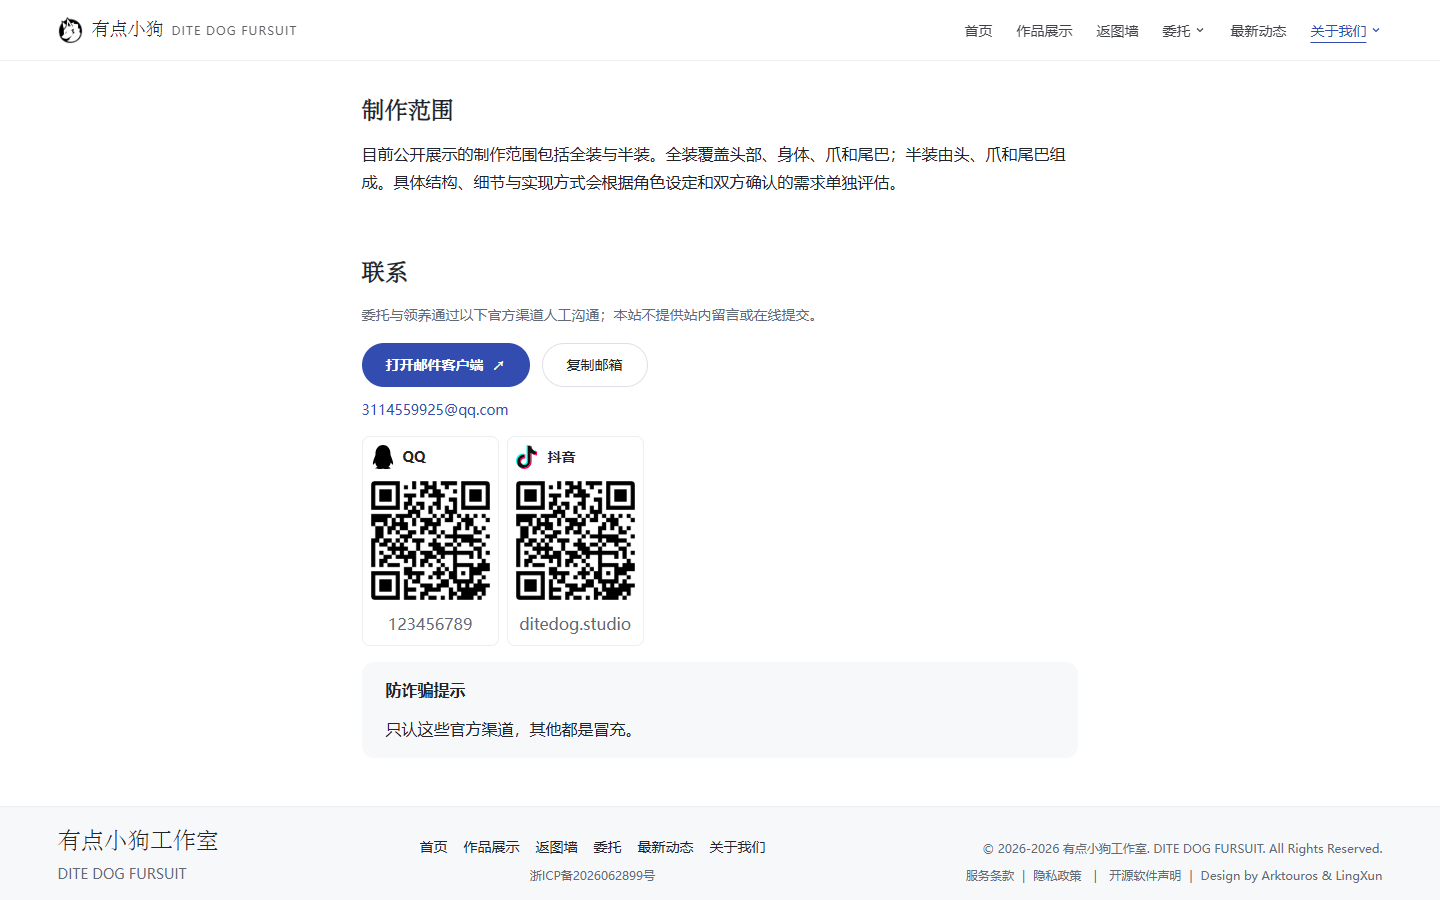
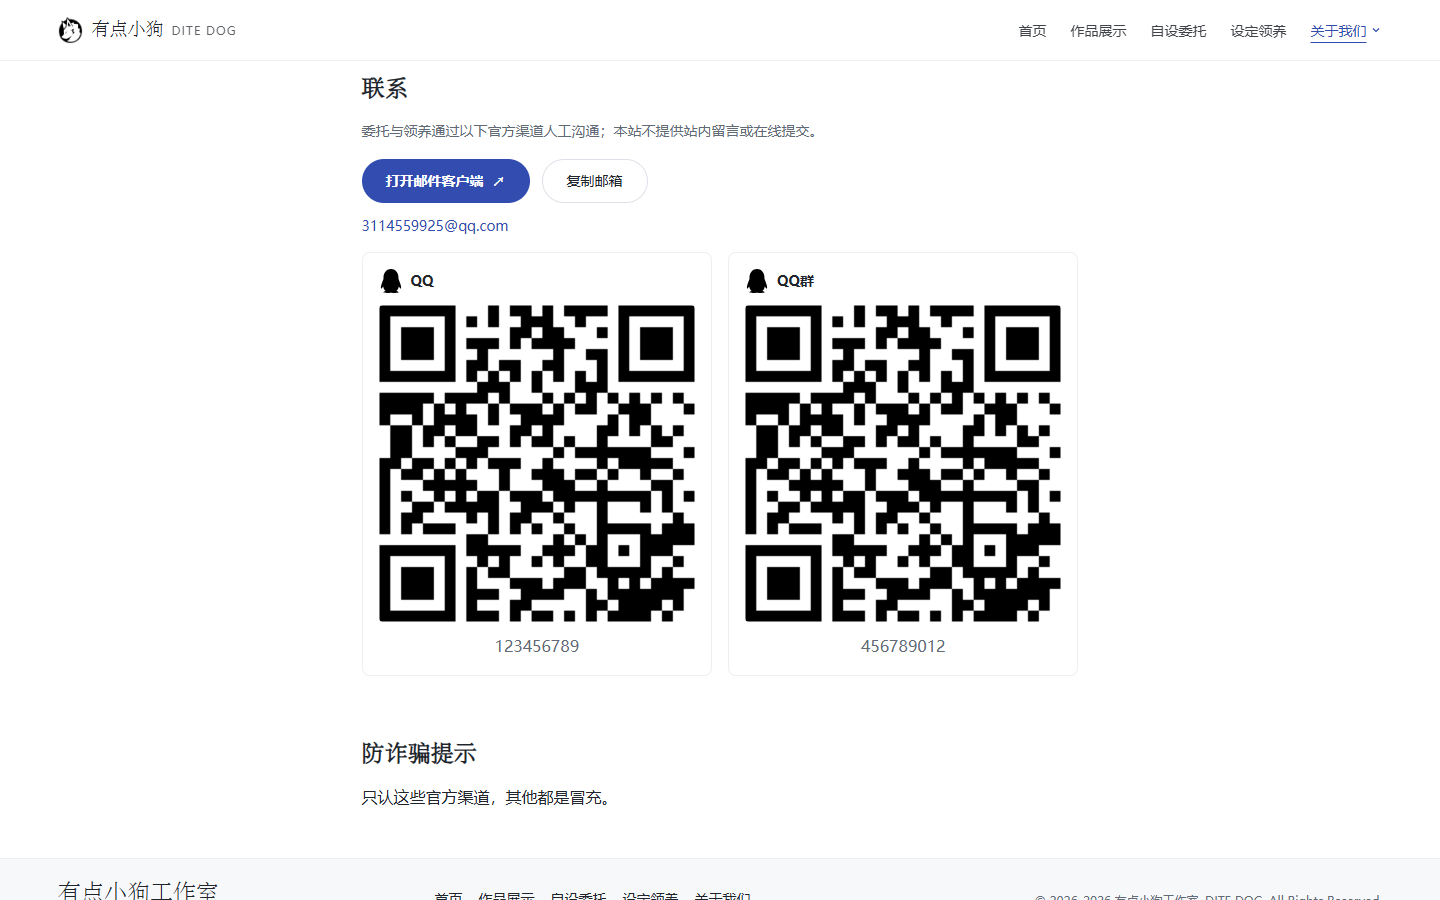
test(r3): prove irreversible local drill

diff --git a/tests/integration/r3-stage-a-cleanup.test.ts b/tests/integration/r3-stage-a-cleanup.test.ts
@@ -1,5 +1,6 @@
 import {
   copyFileSync,
+  existsSync,
   mkdtempSync,
   mkdirSync,
   readFileSync,
@@ -11,9 +12,11 @@ import { dirname, resolve } from 'node:path'
 import type Database from 'better-sqlite3'
 import { afterEach, beforeEach, describe, expect, it } from 'vitest'
 import {
+  backupDatabase,
   DATABASE_MIGRATIONS_FOLDER,
   migrateDatabase,
   openDatabase,
+  restoreDatabase,
 } from '../../server/utils/database'
 import {
   R3_STAGE_A_AUDIT_ACTION,
@@ -314,6 +317,11 @@ describe('R3-A retirement cleanup', () => {
       objectVersions: 16,
       operationRows: 1,
       orphanQrAssets: 1,
+      pendingObjects: 2,
+      privateOriginalKeys: 2,
+      privatePreprocessKeys: 2,
+      privatePreviewKeys: 0,
+      publicDerivedKeys: 3,
       retiredAccounts: 3,
       retiredChannelEntries: 3,
       retiredQrReferences: 1,
@@ -405,6 +413,10 @@ describe('R3-A retirement cleanup', () => {
   })
 
   it('contracts a cleaned complex legacy database and enforces target constraints', async () => {
+    const oldBackup = resolve(directory, 'backups', 'pre-contract-old.db')
+    await backupDatabase(databaseFile, oldBackup)
+    expect(existsSync(oldBackup)).toBe(true)
+
     await runR3StageACleanup(options({
       dryRun: false,
       confirmation: R3_STAGE_A_CONFIRMATION,
@@ -472,6 +484,34 @@ describe('R3-A retirement cleanup', () => {
     expect(schemaSql).not.toContain('return_character')
     expect(schemaSql).not.toContain('contact_douyin')
 
+    sqlite.close()
+    const cleanBackup = resolve(directory, 'backups', 'post-contract-clean.db')
+    const restoredFile = resolve(directory, 'restored', 'post-contract.db')
+    await backupDatabase(databaseFile, cleanBackup)
+    await restoreDatabase(cleanBackup, restoredFile, {
+      activeDatabaseFile: databaseFile,
+    })
+    const restored = openDatabase(restoredFile).sqlite
+    try {
+      expect(restored.pragma('integrity_check', { simple: true })).toBe('ok')
+      expect(restored.pragma('foreign_key_check')).toEqual([])
+      expect(restored.prepare(`
+        SELECT name FROM sqlite_master
+        WHERE type = 'table' AND name IN ('updates', 'return_characters', 'return_photos')
+      `).all()).toEqual([])
+      expect(JSON.parse(restored.prepare(`
+        SELECT official_channels_json FROM site_content WHERE id = 'site'
+      `).pluck().get() as string).map((channel: { platform: string }) => channel.platform))
+        .toEqual(['qq', 'qq_group'])
+    }
+    finally {
+      restored.close()
+    }
+    rmSync(oldBackup)
+    expect(existsSync(oldBackup)).toBe(false)
+    expect(existsSync(cleanBackup)).toBe(true)
+    sqlite = openDatabase(databaseFile).sqlite
+
     const postContract = await runR3StageACleanup(options())
     expect(postContract.counts).toMatchObject({
       analyticsRows: 0,
@@ -483,6 +523,10 @@ describe('R3-A retirement cleanup', () => {
       operationRows: 0,
       orphanQrAssets: 0,
       pendingObjects: 0,
+      privateOriginalKeys: 0,
+      privatePreprocessKeys: 0,
+      privatePreviewKeys: 0,
+      publicDerivedKeys: 0,
       retiredAccounts: 0,
       retiredChannelEntries: 0,
       retiredQrReferences: 0,

diff --git a/server/utils/runner/r3-stage-a-retirement.ts b/server/utils/runner/r3-stage-a-retirement.ts
@@ -59,7 +59,11 @@ export interface R3StageACleanupCounts {
   operationRows: number
   orphanQrAssets: number
   pendingObjects: number
+  privateOriginalKeys: number
+  privatePreprocessKeys: number
+  privatePreviewKeys: number
   privateObjectKeys: number
+  publicDerivedKeys: number
   publicObjectKeys: number
   retiredAccounts: number
   retiredChannelEntries: number
@@ -299,29 +303,40 @@ async function inventory(
   }
 
   const objects = new Map<string, ObjectReference>()
+  const privateOriginalKeys = new Set<string>()
+  const privatePreprocessKeys = new Set<string>()
+  const privatePreviewKeys = new Set<string>()
+  const publicDerivedKeys = new Set<string>()
   if (assetIds.size > 0) {
     const assetStatement = sqlite.prepare(`
       SELECT private_object_key AS objectKey FROM assets WHERE id = ?
     `)
     const variantStatement = tableExists(sqlite, 'asset_variants')
       ? sqlite.prepare(`
-          SELECT storage_scope AS scope, object_key AS objectKey
+          SELECT storage_scope AS scope, object_key AS objectKey, usage
           FROM asset_variants WHERE asset_id = ?
         `)
       : null
     for (const assetId of assetIds) {
       const asset = assetStatement.get(assetId) as { objectKey: string } | undefined
       addObject(objects, 'private', asset?.objectKey, environmentPrefix)
+      if (asset?.objectKey) privateOriginalKeys.add(asset.objectKey)
       for (const variant of (variantStatement?.all(assetId) ?? []) as {
         objectKey: string
         scope: string
+        usage: string
       }[]) {
-        addObject(
-          objects,
-          variant.scope === 'PUBLIC' ? 'public' : 'private',
-          variant.objectKey,
-          environmentPrefix,
-        )
+        const scope = variant.scope === 'PUBLIC' ? 'public' : 'private'
+        addObject(objects, scope, variant.objectKey, environmentPrefix)
+        if (scope === 'public') {
+          publicDerivedKeys.add(variant.objectKey)
+        }
+        else if (variant.usage === 'preprocess') {
+          privatePreprocessKeys.add(variant.objectKey)
+        }
+        else {
+          privatePreviewKeys.add(variant.objectKey)
+        }
       }
     }
   }
@@ -369,6 +384,7 @@ async function inventory(
       pendingObjects += cleanupKeys.length
       for (const key of cleanupKeys) {
         addObject(objects, 'public', key, environmentPrefix)
+        publicDerivedKeys.add(key)
       }
       for (const url of stringArray(row.edgeUrls)) {
         addExactCacheUrl(cacheUrls, url, mediaOrigin)
@@ -415,8 +431,12 @@ async function inventory(
       ),
       orphanQrAssets: existingOrphanQrIds.size,
       pendingObjects,
+      privateOriginalKeys: privateOriginalKeys.size,
+      privatePreprocessKeys: privatePreprocessKeys.size,
+      privatePreviewKeys: privatePreviewKeys.size,
       privateObjectKeys: [...objects.values()]
         .filter(object => object.scope === 'private').length,
+      publicDerivedKeys: publicDerivedKeys.size,
       publicObjectKeys: [...objects.values()]
         .filter(object => object.scope === 'public').length,
       retiredAccounts: retiredChannels.filter(channel => (

diff --git a/tests/unit/deployment-contract.test.ts b/tests/unit/deployment-contract.test.ts
@@ -109,7 +109,9 @@ describe('T52-E6 production deployment contract', () => {
     expect(containerOps).toContain('confirmation: values.confirm')
     expect(containerOps).toContain("case 'upgrade-site-display-v2':")
     expect(containerOps).toContain("import('./site-display-upgrade-options')")
-    expect(containerOps).toContain("import('../server/utils/runner/return-photo-publication')")
+    expect(containerOps).toContain("case 'r3-stage-a-cleanup':")
+    expect(containerOps).toContain("import('./r3-stage-a-cleanup')")
+    expect(containerOps).not.toContain('return-photo-publication')
     expect(database).toContain("PRODUCTION_DATABASE_DIRECTORY = '/app/data'")
     expect(database).toContain('posix.dirname(databaseFile) !== PRODUCTION_DATABASE_DIRECTORY')
   })

diff --git a/tests/integration/public-site-contracts.test.ts b/tests/integration/public-site-contracts.test.ts
@@ -923,7 +923,7 @@ describe('T19/T20 public repository contracts', () => {
     const initial = getAdminHome(sqlite)
     expect(initial).toMatchObject({
       version: expect.any(Number),
-      tagline: '不只做小狗毛',
+      tagline: '不只做小狗毛 | 只做海绵头',
       contactEmail: '3114559925@qq.com',
       contactQq: '3114559925',
       autoRotate: false,

diff --git a/agent_docs/需求3-站点业务简化与委托投递/implementation/TASKS.md b/agent_docs/需求3-站点业务简化与委托投递/implementation/TASKS.md
@@ -1,7 +1,7 @@
 # 任务清单：站点业务简化与委托投递
 
 > **角色**：需求3唯一任务与勾选权威。
-> **状态**：T01～T04 已完成；T05～T07 待执行。
+> **状态**：T01～T05 已完成；T06～T07 待执行。
 > **规则**：任务完成不代签 CI、独立 Review、用户验收或生产执行。所有数据库写、媒体删除和 operation 串行。
 
 ## 决策与文档
@@ -15,7 +15,7 @@
 - [x] **T02 · 退役代码与联系渠道契约**：删除 returns/updates 页面、API、Schema、DTO、repository、service、runner、recipe、fixture 和测试；旧路由 404；更新 sitemap、analytics、build guard、verify；把 `CONTACT_PLATFORMS`、Schema、DTO、管理 Card 和公开 Grid 收缩为 `qq | qq_group`，删除抖音/小红书/Bilibili 分支、Logo 和测试。代码删除、全量 unit、lint/typecheck、production build 和退役路由 E2E 已通过；旧库五槽 CHECK 导致的 selected integration 失败已记录，固定由 T04 Contract 修复并原样重测。
 - [x] **T03 · 退役/渠道 dry-run 与强确认工具**：精确盘点 return/update 行、asset/session/variant/operation/analytics、private/public objects、OSS versions/delete markers、ESA URLs、应用备份，以及三类取消平台账号/二维码引用和无其它引用的 QR 资产；只输出脱敏计数。`pnpm r3-a:cleanup -- --environment-prefix prod/` 默认 dry-run；正式删除必须追加 `--execute --confirm "DELETE R3-A RETIRED MEDIA"`。对象/版本/marker/ESA 任一步失败都不写 `R3_STAGE_A_OBJECT_CLEANUP` 成功标记，T04 不得继续。
 - [x] **T04 · 第一发布单元数据库 contract**：前向迁移 `0036_r3_a_contract.sql` 在 DROP 前验证 T03 标记/净新库条件，删除 updates/return 表及相关行，重建 assets/upload/variants/publication/analytics 约束；`official_channels_json` 固定 QQ/QQ群，删除 `contact_douyin` 与无其它引用的退役平台 QR 资产，保留 `contact_qq`。focused integration 7 files / 57 tests、lint/typecheck 通过，fresh/re-entrant migration、FK/integrity 通过。
-- [ ] **T05 · 本地不可恢复演练**：复杂副本完成 dry-run、返图对象/版本删除、ESA purge、渠道 JSON 收缩、取消平台 QR 清理、contract、404、联系页面检查、重复执行、integrity 和 clean backup restore；旧应用备份在 clean backup 验证后删除。
+- [x] **T05 · 本地不可恢复演练**：复杂副本和测试对象在唯一隔离前缀上完成 dry-run、强确认、8 current objects/16 versions/8 delete markers 删除、ESA purge、渠道收缩、孤立 QR 清理、Contract、404、六个联系渠道 E2E、FK/integrity、production build/verify、clean backup 真实恢复、恢复后旧备份删除和零结果重入；未访问任何生产资源。
 - [ ] **T06 · 第一发布单元质量与独立复查**：相关 lint/typecheck/unit/integration/E2E/build/verify 全部通过；新上下文 focused review 检查对象枚举、停止点、404、两平台约束、取消平台资产清理和证据。
 - [ ] **T07 · 生产立即退役与渠道收缩**：维护窗口停写，用户核对 dry-run 并强确认返图/动态删除；删除媒体/版本/cache，执行渠道/退役 contract，验证服务，创建并恢复 clean backup，再删除旧应用备份；操作员记录外部快照处理状态。
 

diff --git a/agent_docs/需求3-站点业务简化与委托投递/implementation/notes/R3-A-T01-T06-EXECUTION-2026-08-15.md b/agent_docs/需求3-站点业务简化与委托投递/implementation/notes/R3-A-T01-T06-EXECUTION-2026-08-15.md
@@ -61,6 +61,7 @@
 - 顺序：复杂旧库/测试媒体 → dry-run 计数 → 强确认删除（私有原图/preprocess/preview、公开派生、pending、versions/delete markers、ESA purge）→ Contract → 404/联系收缩/FK/integrity → production build/verify → 新净化备份创建与真实恢复 → 成功后删除隔离目录中的旧应用备份 → 再次 dry-run → 重复执行。
 - 证据：脱敏计数、精确命令、备份/恢复哈希与验证、零结果重入。
 - 停止点：任一隔离证明失败即停止；不访问生产环境。
+- 结果：完成。演练仅使用 `APP_ENV=test`、系统临时目录绝对 SQLite、测试对象仓/ESA adapter 和 `test/r3-a-drill/integration-001/`。dry-run 实际目标计数：asset rows 2、variant rows 4、upload session 1、operation 1、analytics 1、update/return character/return photo 各1、孤立 QR asset 1、current objects 8、versions 16、delete markers 8、private originals 2、preprocess 2、private preview 0、public derived 3、pending references 2。强确认后 current/version/marker 归零，ESA purge 完成，Contract/FK/integrity 通过；新净化备份恢复后才删除旧演练备份，Contract 后 dry-run 全部退役计数为 0。路由 E2E 1/1、联系渠道 E2E 6/6、unit 37 files/188 tests、integration 21 files/175 tests、lint、typecheck、production build/content guard、production verify 全部通过。
 
 ### T06 focused Review
 
@@ -86,6 +87,9 @@
 - T04 首次 `pnpm db:generate -- --name ...` 失败：脚本不接受该参数形式。改用 Drizzle 正确入口后，发现 meta snapshot 只到 `0012`而仓库已有大量受控手写前向 migration，工具会把历史表误判为 rename；立即取消交互，按当前 Schema/实际 SQLite DDL 新增手写 `0036`，未重写历史。
 - T04 fresh migration 首轮在 `0036` guard 失败：历史默认 seed 含一个无 QR/无媒体的 Douyin 账号。根因是 guard 把可由交易丢弃的纯账号错当成外部对象；改为只对退役业务行、QR 引用和媒体/操作行要求清理标记，对象停止点不变。
 - T04 guard 负例的首次 Vitest 断言只检查 Drizzle 外层错误文本，未命中 SQLite trigger 的 cause；改为精确验证嵌套 cause 为 `r3_a_cleanup_required`。后续 focused integration 首轮 55/57，两处历史测试仍期待旧 contact version/返图 trigger；改为目标 Contract 的版本增量和触发器集合后原样重测 57/57 通过。
+- T05 首轮全量 unit 为 187/188：部署契约仍要求容器恢复入口导入已退役的 `return-photo-publication`。改为正向检查 `r3-stage-a-cleanup` 容器入口、负向检查旧 runner 不入镜后，全量重测 188/188 通过。
+- T05 首轮全量 integration 为 174/175：Hero publication 测试仍断言旧 slogan。同步为 T01 已锁定的完整 slogan 后，focused 8/8 及全量 175/175 通过。
+- T05 首次合并 Playwright `--grep` 命令在 Windows 下把正则管道字符二次解析为 shell pipe，测试未启动。拆为退役路由和单一关键词联系渠道两个串行命令后分别 1/1、6/6 通过。
 
 ## 生产交接停止点
 

diff --git a/agent_docs/需求3-站点业务简化与委托投递/STATE.md b/agent_docs/需求3-站点业务简化与委托投递/STATE.md
@@ -1,7 +1,7 @@
 # 当前状态：需求3 · 站点业务简化与委托投递
 
 > **最后校准**：2026-08-15。
-> **当前阶段**：阶段 A 本地实施中；T01～T04 已完成，正在执行 T05。
+> **当前阶段**：阶段 A 本地实施中；T01～T05 已完成，正在执行 T06 独立 focused Review。
 > **任务权威**：[`implementation/TASKS.md`](./implementation/TASKS.md)。
 > **当前 main 基线**：`639d15b`；任务分支 `feat/r3-retire-returns-updates` 已删除退役代码，新增默认 dry-run 的串行清理命令及前向 Contract migration `0036_r3_a_contract.sql`；未触碰生产数据。
 
@@ -46,7 +46,7 @@
 | 阶段 | 状态 | 门禁 |
 | --- | --- | --- |
 | GATE-00 文档与决策 | 已完成 | — |
-| A 立即退役返图/动态并收缩联系渠道 | 本地实施中（T01～T04 完成） | GATE-A |
+| A 立即退役返图/动态并收缩联系渠道 | 本地实施中（T01～T05 完成） | GATE-A |
 | B Expand 新模型与安全 | 未开始 | GATE-B |
 | C 动效与 Hero | 未开始 | GATE-C |
 | D 作品与领养 | 未开始 | GATE-D |
@@ -85,7 +85,7 @@ OSS CORS 通配是用户确认的现状和目标，不是风险 finding，也不
 
 ## 5. 下一步
 
-1. 在 `feat/r3-retire-returns-updates` 按 T05–T06 完成本地演练、CI 和 focused review；
+1. 在 `feat/r3-retire-returns-updates` 完成 T06 独立 focused review，然后推送 PR 并查询该 HEAD 的实际 CI；
 2. 保持 T07/GATE-A 未完成，不进入阶段 B/C；
 3. 用户核对生产 dry-run 后执行 T07；
 4. GATE-A 关闭后再进入 Expand；

diff --git a/agent_docs/需求3-站点业务简化与委托投递/models/README.md b/agent_docs/需求3-站点业务简化与委托投递/models/README.md
@@ -1,7 +1,7 @@
 # 需求3 · 数据模型规划
 
 > **角色**：定义 contract 完成后的目标持久模型、DTO 和媒体身份。
-> **状态**：目标已锁定；T01～T04 的品牌、代码、清理工具和持久 Contract 已回填，T05～T06 实施中。
+> **状态**：目标已锁定；T01～T05 的品牌、代码、清理工具、持久 Contract 和本地演练已回填，T06 实施中。
 > **修订**：增加 Hero collection 版本域、明确领养状态人工迁移、沿用既有 `detail` usage、保留 `commission_email_action`；官方渠道收缩为 `qq | qq_group`，OSS CORS 保持通配且不进入模型门禁。
 
 ## 1. 最终数据域
@@ -531,3 +531,5 @@ event_time
 - 补齐 cover 数量；
 - DTO 与 route 文件路径；
 - 净化备份恢复结果。
+
+2026-08-15 T05 回填：复杂旧库与测试对象演练目标计数为 private original 2、private preprocess 2、private preview 0、public derived 3、pending reference 2；历史返图模型没有独立持久 private-preview 类型，因此该项明确验证为零。Contract 后新净化备份已真实恢复到新路径，验证成功后才删除演练目录中的旧应用备份。

diff --git a/agent_docs/需求3-站点业务简化与委托投递/planning/PLAN.md b/agent_docs/需求3-站点业务简化与委托投递/planning/PLAN.md
@@ -1,7 +1,7 @@
 # 需求3 · 实施计划
 
 > **角色**：将需求3拆成可串行实施、可审查、可上线的发布单元。
-> **状态**：阶段 A 本地实施中；A1、A2 与 A3 代码/迁移已完成，A4 本地演练与独立复查执行中。
+> **状态**：阶段 A 本地实施中；A1～A3 及 A4 本地演练已完成，A4 独立复查执行中。
 > **修订**：永久退役提前为第一发布单元；增加 Hero collection version、歧义状态人工复核；OSS CORS 保持通配且不作门禁；官方渠道收缩为邮箱、QQ、QQ群。
 
 ## 1. 总路线
@@ -78,6 +78,8 @@ A 立即退役返图/动态并收缩联系渠道
 - 净化备份恢复验证后删除旧应用备份。
 
 ### A4. 本地演练、独立复查与生产
+
+> 2026-08-15：T05 已在 `APP_ENV=test`、系统临时目录绝对数据库、测试双 Bucket/Endpoint adapter 和唯一 `test/r3-a-drill/integration-001/` 前缀上完成不可恢复演练；未读取或连接生产数据库、Bucket 或对象前缀。
 
 - 复杂本地副本完整演练；
 - focused independent review；

diff --git a/agent_docs/需求3-站点业务简化与委托投递/planning/DATA-MIGRATION.md b/agent_docs/需求3-站点业务简化与委托投递/planning/DATA-MIGRATION.md
@@ -151,6 +151,14 @@ contact_douyin legacy column
 - `contact_qq` 兼容列不在本阶段强制删除；
 - 本阶段不等待作品字段重构，也不删除 works 的 suit/owner/event 等列。
 
+### 2.6 T05 隔离本地演练结果
+
+- 隔离证明：`APP_ENV=test`，系统临时目录绝对 SQLite 路径，测试双 Bucket/loopback-or-test Endpoint adapter，唯一前缀 `test/r3-a-drill/integration-001/`；
+- dry-run：8 个当前对象、16 个历史 version、8 个 delete marker；private original=2、preprocess=2、private preview=0、public derived=3、pending reference=2；
+- 正式演练：仅使用完整强确认短语，删除后 current/version/delete-marker 均为 0，ESA exact purge adapter 完成后才签发 Contract-ready 标记；
+- Contract/备份：退役表、媒体和 QR 资产已删，渠道仅 QQ/QQ群，FK/integrity 通过；新净化备份恢复到新数据库后再删除旧演练备份；
+- 重入：Contract 后 dry-run 所有退役计数均为 0，再次执行安全。
+
 ## 3. R3-B：Hero Expand
 
 ### 3.1 创建 collection
